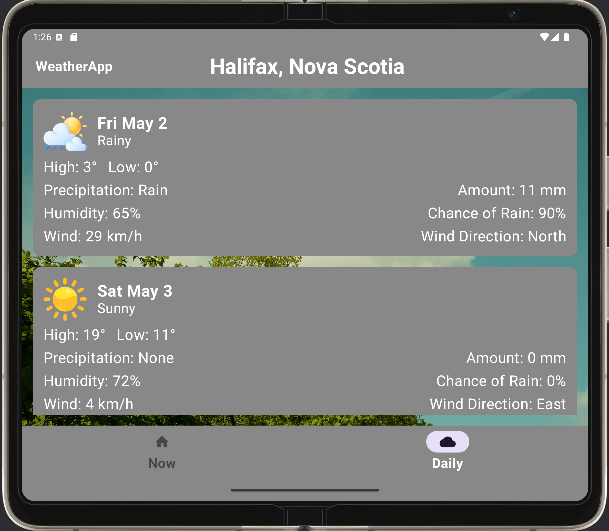
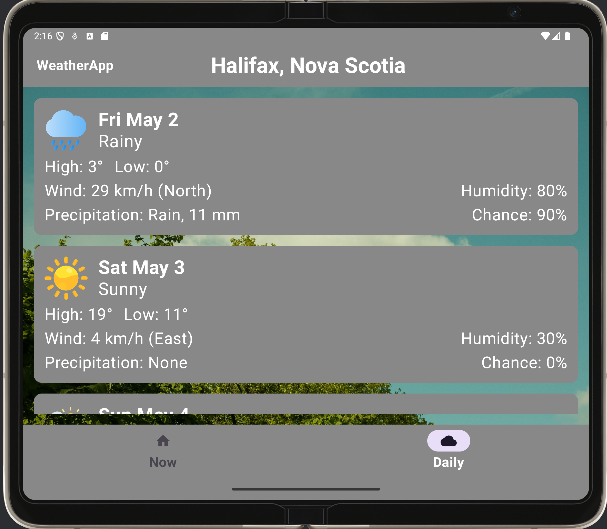
Added new weather types. Also new screenshots

diff --git a/app/src/main/java/com/example/weatherapp/MainActivity.kt b/app/src/main/java/com/example/weatherapp/MainActivity.kt
@@ -187,7 +187,7 @@ fun NowScreen() {
 
             Spacer(Modifier.height(16.dp))
 
-            // Surface container for weather details (wind, humidity, etc.)
+            // Surface container for weather details
             Surface(
                 modifier = Modifier.padding(4.dp),
                 color = Color.Gray,
@@ -202,11 +202,11 @@ fun NowScreen() {
                     ) {
                         Column {
                             Text("Wind Direction", fontSize = 26.sp, fontWeight = FontWeight.Bold, color = Color.White)
-                            Text("North", fontSize = 22.sp, color = Color.White)
+                            Text("North", fontSize = 23.sp, color = Color.White)
                         }
                         Column(horizontalAlignment = Alignment.End) {
                             Text("Wind Speed", fontSize = 26.sp, fontWeight = FontWeight.Bold, color = Color.White)
-                            Text("3 km/h", fontSize = 22.sp, color = Color.White)
+                            Text("3 km/h", fontSize = 23.sp, color = Color.White)
                         }
                     }
 
@@ -219,11 +219,11 @@ fun NowScreen() {
                     ) {
                         Column {
                             Text("Humidity", fontSize = 26.sp, fontWeight = FontWeight.Bold, color = Color.White)
-                            Text("5%", fontSize = 22.sp, color = Color.White)
+                            Text("40%", fontSize = 23.sp, color = Color.White)
                         }
                         Column(horizontalAlignment = Alignment.End) {
                             Text("Precipitation", fontSize = 26.sp, fontWeight = FontWeight.Bold, color = Color.White)
-                            Text("None", fontSize = 22.sp, color = Color.White)
+                            Text("None", fontSize = 23.sp, color = Color.White)
                         }
                     }
 
@@ -235,7 +235,7 @@ fun NowScreen() {
                         horizontalArrangement = Arrangement.SpaceBetween
                     ) {
                         Column {
-                            Text("Chance of Rain", fontSize = 26.sp, fontWeight = FontWeight.Bold, color = Color.White)
+                            Text("Chance of Precipitation", fontSize = 26.sp, fontWeight = FontWeight.Bold, color = Color.White)
                             Text("0%", fontSize = 22.sp, color = Color.White)
                         }
 
@@ -250,33 +250,35 @@ fun NowScreen() {
 
 @Composable
 fun DailyScreen() {
-    // List of forecast items for different days
+    // List of forecast items with weather data
     val items = listOf(
-        ForecastItem("Fri May 2", "3°", "0°", "Wind: 29 km/h", "Humidity: 65%", R.drawable.rainy, "Rainy", "Rain", "11 mm", "90%", "North"),
-        ForecastItem("Sat May 3", "19°", "11°", "Wind: 4 km/h", "Humidity: 72%", R.drawable.sunny, "Sunny", "None", "0 mm", "0%", "East"),
-        ForecastItem("Sun May 4", "7°", "3°", "Wind: 17 km/h", "Humidity: 60%", R.drawable.cloudy, "Partly Cloudy", "Clouds", "5 mm", "40%", "West")
+        ForecastItem("Fri May 2", "3°", "0°", "29 km/h", "80%", R.drawable.rainy, "Rainy", "Rain,", "11 mm", "90%", "North"),
+        ForecastItem("Sat May 3", "19°", "11°", "4 km/h", "30%", R.drawable.sunny, "Sunny", "None", "", "0%", "East"),
+        ForecastItem("Sun May 4", "7°", "3°", "17 km/h", "70%", R.drawable.cloudy, "Cloudy", "None", "", "40%", "West"),
+        ForecastItem("Mon May 5", "6°", "1°", "35 km/h", "75%", R.drawable.thunderstorm, "Thunderstorm", "Thunderstorm,", "8 mm", "100%", "South"),
+        ForecastItem("Tue May 6", "-2°", "-6°", "15 km/h", "85%", R.drawable.snow, "Snow", "Snow,", "12 cm", "95%", "Northwest"),
+        ForecastItem("Wed May 7", "4°", "2°", "10 km/h", "90%", R.drawable.fog, "Fog", "Fog", "", "60%", "East")
     )
 
-    // Main container with background and scrollable content
+    // Box to hold background image and weather items
     Box(Modifier.fillMaxSize()) {
-
-        // Background image
+        // Background image for the screen
         Image(
             painter = painterResource(id = R.drawable.sunny_background),
-            contentDescription = null, // No screen reader needed
+            contentDescription = null,
             modifier = Modifier.fillMaxSize(),
-            contentScale = ContentScale.Crop // Stretch image to fit screen
+            contentScale = ContentScale.Crop
         )
 
-        // Scrollable list of forecast items
+        // LazyColumn to display the list of forecast items
         LazyColumn(
             modifier = Modifier
                 .fillMaxSize()
-                .padding(16.dp) // Add padding around the list
+                .padding(16.dp)
         ) {
-            // Add each forecast item to the list
+            // For each forecast item, display it using DailyForecastItem
             items(items) { item ->
-                DailyForecastItem(item) // Show item using custom UI
+                DailyForecastItem(item)
             }
         }
     }
@@ -284,17 +286,16 @@ fun DailyScreen() {
 
 @Composable
 fun DailyForecastItem(item: ForecastItem) {
-    // Card to hold each forecast item
+    // Card to display individual weather forecast details
     Card(
         modifier = Modifier
             .fillMaxWidth()
-            .padding(bottom = 16.dp), // Space between items
-        colors = CardDefaults.cardColors(containerColor = Color.Gray) // Background color
+            .padding(bottom = 16.dp),
+        colors = CardDefaults.cardColors(containerColor = Color.Gray)
     ) {
-        // Content inside the card
+        // Column to arrange all weather information vertically
         Column(modifier = Modifier.padding(16.dp)) {
-
-            // Top row: Icon, Date, and Weather Condition
+            // Row for displaying date, weather icon, and condition
             Row(
                 verticalAlignment = Alignment.CenterVertically,
                 horizontalArrangement = Arrangement.Start
@@ -306,54 +307,42 @@ fun DailyForecastItem(item: ForecastItem) {
                 )
                 Spacer(modifier = Modifier.width(16.dp))
                 Column {
-                    Text(item.date, fontSize = 24.sp, fontWeight = FontWeight.Bold, color = Color.White)
-                    Text(item.condition, fontSize = 20.sp, color = Color.White)
+                    Text(item.date, fontSize = 28.sp, fontWeight = FontWeight.Bold, color = Color.White)
+                    Text(item.condition, fontSize = 26.sp, color = Color.White)
                 }
             }
 
             Spacer(modifier = Modifier.height(8.dp))
 
-            // Row for High and Low temperatures
+            // Row for displaying high and low temperatures
             Row(
-                horizontalArrangement = Arrangement.Start,
-                modifier = Modifier.fillMaxWidth()
+                verticalAlignment = Alignment.CenterVertically
             ) {
-                Text("High: ${item.high}", color = Color.White, fontSize = 22.sp)
+                Text("High: ${item.high}", fontSize = 24.sp, color = Color.White)
                 Spacer(modifier = Modifier.width(16.dp))
-                Text("Low: ${item.low}", color = Color.White, fontSize = 22.sp)
+                Text("Low: ${item.low}", fontSize = 24.sp, color = Color.White)
             }
 
             Spacer(modifier = Modifier.height(8.dp))
 
-            // Row for Precipitation Type and Amount
+            // Row for displaying wind and humidity details
             Row(
-                horizontalArrangement = Arrangement.SpaceBetween,
-                modifier = Modifier.fillMaxWidth()
+                modifier = Modifier.fillMaxWidth(),
+                horizontalArrangement = Arrangement.SpaceBetween
             ) {
-                Text("Precipitation: ${item.precipitationType}", color = Color.White, fontSize = 22.sp)
-                Text("Amount: ${item.precipitationAmount}", color = Color.White, fontSize = 22.sp)
+                Text("Wind: ${item.wind} (${item.windDirection})", fontSize = 24.sp, color = Color.White)
+                Text("Humidity: ${item.humidity}", fontSize = 24.sp, color = Color.White)
             }
 
             Spacer(modifier = Modifier.height(8.dp))
 
-            // Row for Humidity and Chance of Rain
+            // Row for displaying precipitation details and chance of precipitation
             Row(
-                horizontalArrangement = Arrangement.SpaceBetween,
-                modifier = Modifier.fillMaxWidth()
+                modifier = Modifier.fillMaxWidth(),
+                horizontalArrangement = Arrangement.SpaceBetween
             ) {
-                Text(item.humidity, color = Color.White, fontSize = 22.sp)
-                Text("Chance of Rain: ${item.precipitationProbability}", color = Color.White, fontSize = 22.sp)
-            }
-
-            Spacer(modifier = Modifier.height(8.dp))
-
-            // Row for Wind and Wind Direction
-            Row(
-                horizontalArrangement = Arrangement.SpaceBetween,
-                modifier = Modifier.fillMaxWidth()
-            ) {
-                Text(item.wind, color = Color.White, fontSize = 22.sp)
-                Text("Wind Direction: ${item.windDirection}", color = Color.White, fontSize = 22.sp)
+                Text("Precipitation: ${item.precipitationType} ${item.precipitationAmount}", fontSize = 24.sp, color = Color.White)
+                Text("Chance: ${item.precipitationProbability}", fontSize = 24.sp, color = Color.White)
             }
         }
     }
